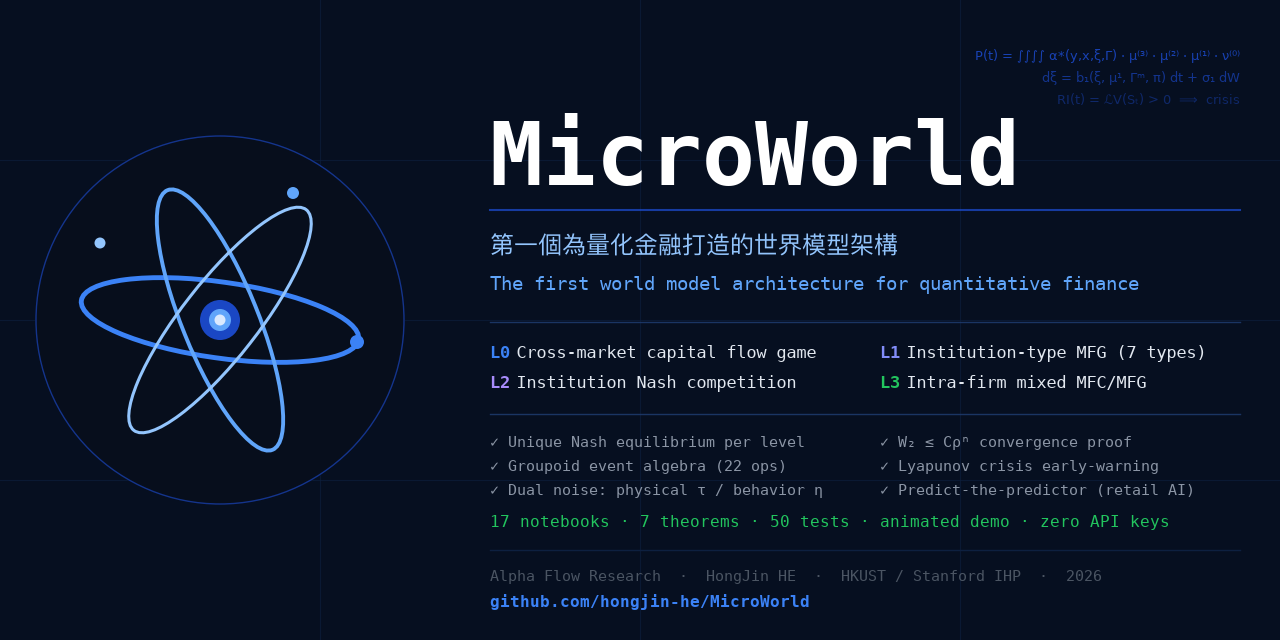
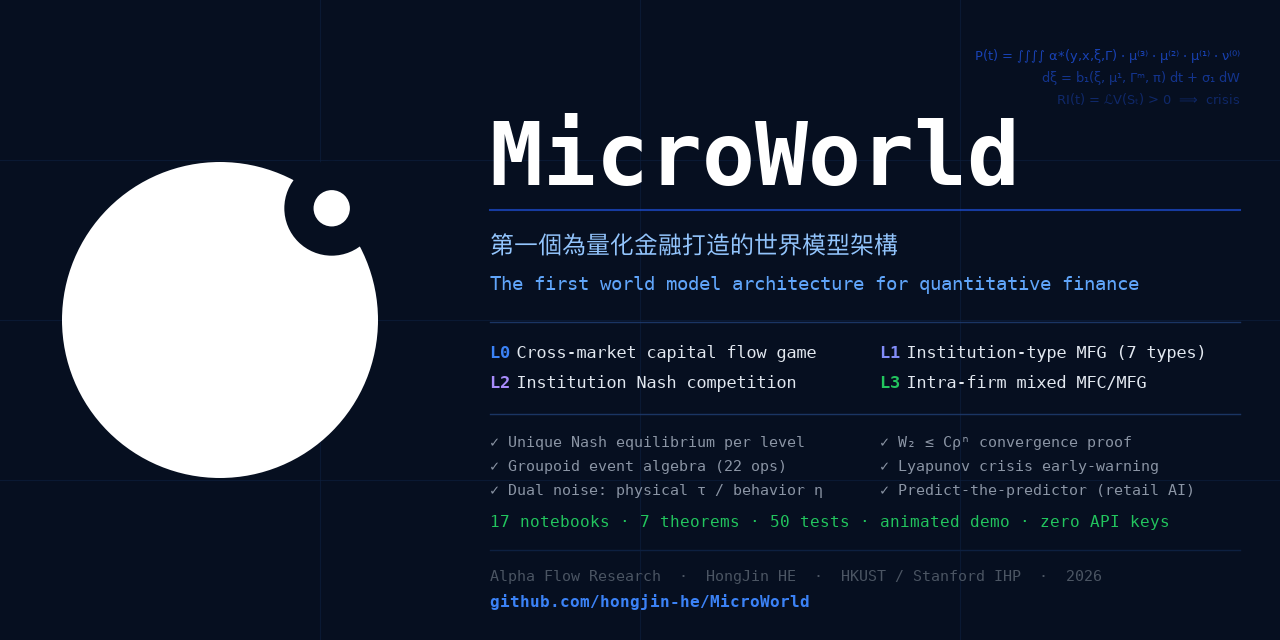
New brand mark: ECLIPSE — the world, and the observer inside it
Replace the blue atom logo with a minimal black-and-white mark: a solid disc
(the market world) with a bite of negative space at its rim holding a single
dot (the modeler, inside the world they model — reflexivity as geometry).

- microworld_logo.svg / microworld_logo_dark.svg: mask-based true cutout,
  renders on any background; READMEs now use a <picture> block so GitHub
  serves the right variant in light and dark themes
- 1024px PNGs (black / white on transparent) + avatar-safe padded version
- social_preview.png rebuilt with the new mark

Changed region(s): [[0.0312, 0.25, 0.3125, 0.75]]

diff --git a/README.md b/README.md
@@ -1,6 +1,9 @@
 <div align="center">
 
-<img src="figures/microworld_logo.svg" width="200" alt="MicroWorld"/>
+<picture>
+  <source media="(prefers-color-scheme: dark)" srcset="figures/microworld_logo_dark.svg">
+  <img src="figures/microworld_logo.svg" width="170" alt="MicroWorld"/>
+</picture>
 
 # MicroWorld
 *The first world model architecture designed for quantitative finance:*  

diff --git a/README_CN.md b/README_CN.md
@@ -1,6 +1,9 @@
 <div align="center">
 
-<img src="figures/microworld_logo.svg" width="200" alt="MicroWorld"/>
+<picture>
+  <source media="(prefers-color-scheme: dark)" srcset="figures/microworld_logo_dark.svg">
+  <img src="figures/microworld_logo.svg" width="170" alt="MicroWorld"/>
+</picture>
 
 # MicroWorld
 
